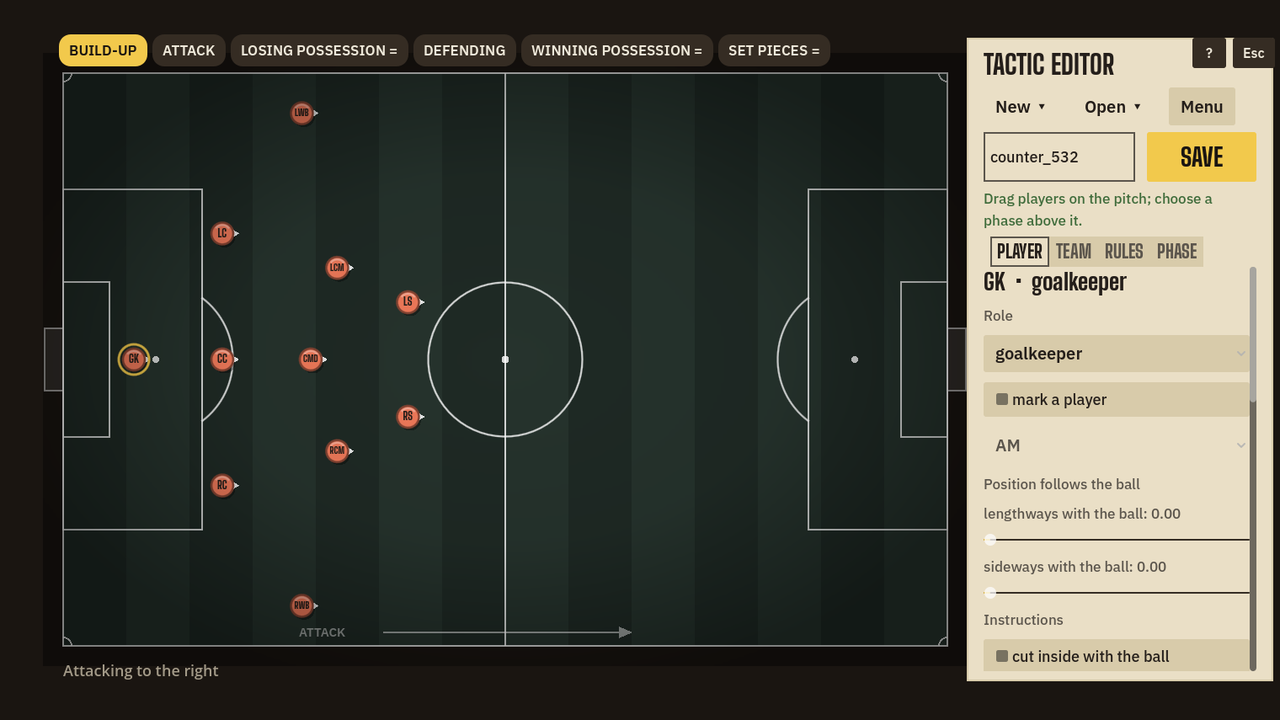
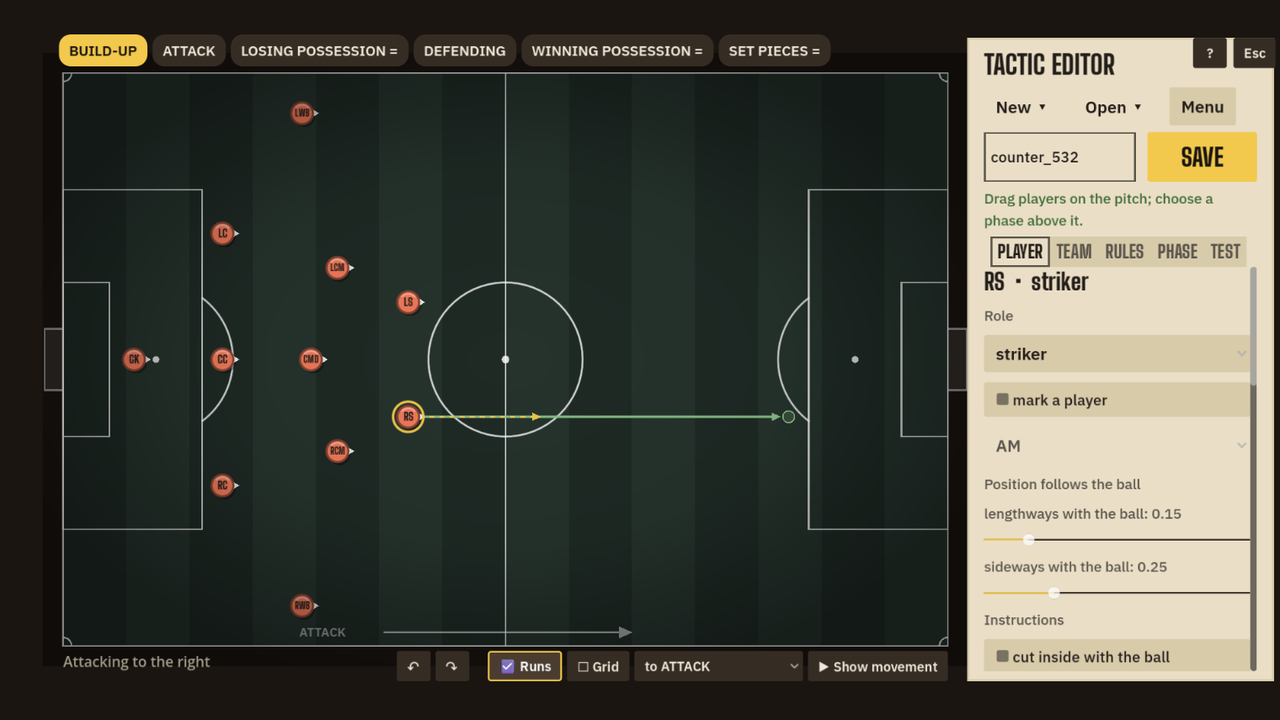
itch-media: nieuwe screenshots (RC1-exe), 08-11, trailer.gif en preview bijgewerkt
Opnamen uit release-exe 0.1.0-beta.1 (Engels). playtest_exe.py: fps-parameter, muiswiel, backspace.

Claude-Session: https://claude.ai/code/session_019QkXHE8GpzZwQEBBMRLHTX

diff --git a/docs/itch/preview/index.html b/docs/itch/preview/index.html
@@ -17,7 +17,7 @@ nav a:hover{background:rgba(255,255,255,.1)}
 h1{font:800 clamp(44px,8vw,92px)/.92 "Big Shoulders Display",Impact,sans-serif;text-transform:uppercase;color:var(--paper);margin:0 0 6px}
 .sub{color:var(--paper);opacity:.9;font-size:18px;margin:0 0 16px}
 .hero{width:100%;display:block;border-radius:4px;border:1px solid #0006}
-.thumbs{display:grid;grid-template-columns:repeat(6,1fr);gap:6px;margin-top:6px}
+.thumbs{display:grid;grid-template-columns:repeat(5,1fr);gap:6px;margin-top:6px}
 .thumbs img{width:100%;display:block;border-radius:2px;opacity:.85}.thumbs img:hover{opacity:1;outline:2px solid var(--accent)}
 .side{background:var(--paper);border-radius:4px;overflow:hidden;align-self:start;box-shadow:0 2px 0 #0004}
 .side img{width:100%;display:block}
@@ -51,7 +51,7 @@ footer{color:var(--paper);opacity:.75;font-size:13px;margin-top:28px}
 <div>
 <h1>Gaffer's Notebook</h1>
 <p class="sub">A football tactics sandbox: draw your plan in a notebook, then coach the match.</p>
-<img class="hero" src="01-match-live-1280x720.png" alt="Live match with scoreboard and statistics">
+<img class="hero" src="trailer.gif" alt="Short trailer: the notebook cover opens, a tactic with run lines, a match and the full-time card">
 <div class="thumbs">
 <a href="02-tactic-maker-1280x720.png"><img src="02-tactic-maker-1280x720.png" alt=""></a>
 <a href="03-menu-first-steps-1280x720.png"><img src="03-menu-first-steps-1280x720.png" alt=""></a>
@@ -59,6 +59,10 @@ footer{color:var(--paper);opacity:.75;font-size:13px;margin-top:28px}
 <a href="05-challenges-1280x720.png"><img src="05-challenges-1280x720.png" alt=""></a>
 <a href="06-tactic-meter-1280x720.png"><img src="06-tactic-meter-1280x720.png" alt=""></a>
 <a href="01-match-live-1280x720.png"><img src="01-match-live-1280x720.png" alt=""></a>
+<a href="08-library-1280x720.png"><img src="08-library-1280x720.png" alt=""></a>
+<a href="09-player-card-1280x720.png"><img src="09-player-card-1280x720.png" alt=""></a>
+<a href="10-highlights-1280x720.png"><img src="10-highlights-1280x720.png" alt=""></a>
+<a href="11-editor-runs-1280x720.png"><img src="11-editor-runs-1280x720.png" alt=""></a>
 </div></div>
 
 <aside class="side"><img src="cover-630x500.png" alt="Gaffer's Notebook">
@@ -89,6 +93,10 @@ footer{color:var(--paper);opacity:.75;font-size:13px;margin-top:28px}
 <figure><img src="06-tactic-meter-1280x720.png" alt=""><figcaption><b>Tactic Meter</b>Play many simulated matches with two tactics and see how they differ, with heatmaps and a "why" list. It measures the simulation, not real football.</figcaption></figure>
 <figure><img src="05-challenges-1280x720.png" alt=""><figcaption><b>Challenges</b>Six scenarios with a concrete goal, like scoring against a low block or keeping a clean sheet.</figcaption></figure>
 <figure><img src="04-full-time-1280x720.png" alt=""><figcaption><b>Full-time analysis</b>Statistics and two heatmaps after the whistle, to see where your plan worked.</figcaption></figure>
+<figure><img src="11-editor-runs-1280x720.png" alt=""><figcaption><b>Run lines and quick test</b>The editor draws where every player runs in each phase, and the TEST tab plays four short matches against an opponent of your choice with a result and a heatmap.</figcaption></figure>
+<figure><img src="08-library-1280x720.png" alt=""><figcaption><b>Tactic library</b>All your tactics in one list with a preview, favourites, rename, delete, import and export. Start from one of the nine starters or your own.</figcaption></figure>
+<figure><img src="09-player-card-1280x720.png" alt=""><figcaption><b>Player card</b>Click a player in a live match to see his condition, burst, stats and instructions, plus the spot where your tactic sends him.</figcaption></figure>
+<figure><img src="10-highlights-1280x720.png" alt=""><figcaption><b>Watch highlights</b>After the final whistle, replay the key moments of the match: goals, saves and chances, with a skip button.</figcaption></figure>
 <figure><img src="03-menu-first-steps-1280x720.png" alt=""><figcaption><b>Squad, levels and training</b>Players from amateur to pro make different kinds of mistakes. Your squad learns tactical concepts over time, so a demanding tactic needs training. A small fictional league ties it together. Nine starter tactics, including wide 4-3-3 wing play, 3-5-2 flank pressure and 4-4-2 long ball.</figcaption></figure>
 </div></section>
 
@@ -99,6 +107,10 @@ footer{color:var(--paper);opacity:.75;font-size:13px;margin-top:28px}
 <a href="04-full-time-1280x720.png"><img src="04-full-time-1280x720.png" alt=""></a>
 <a href="05-challenges-1280x720.png"><img src="05-challenges-1280x720.png" alt=""></a>
 <a href="06-tactic-meter-1280x720.png"><img src="06-tactic-meter-1280x720.png" alt=""></a>
+<a href="08-library-1280x720.png"><img src="08-library-1280x720.png" alt=""></a>
+<a href="09-player-card-1280x720.png"><img src="09-player-card-1280x720.png" alt=""></a>
+<a href="10-highlights-1280x720.png"><img src="10-highlights-1280x720.png" alt=""></a>
+<a href="11-editor-runs-1280x720.png"><img src="11-editor-runs-1280x720.png" alt=""></a>
 </div></section>
 
 <section class="paper" id="roadmap"><h2>Roadmap</h2>

diff --git a/scripts/playtest_exe.py b/scripts/playtest_exe.py
@@ -12,12 +12,12 @@ from ctypes import wintypes
 
 U = ctypes.windll.user32
 W, H = 1520, 780  # venster/viewport van het spel
-VK = {'ESC': 0x1B, 'ENTER': 0x0D, 'SPACE': 0x20, 'F9': 0x78, 'TAB': 0x09, 'END': 0x23, 'B': 0x42}
+VK = {'ESC': 0x1B, 'ENTER': 0x0D, 'SPACE': 0x20, 'F9': 0x78, 'TAB': 0x09, 'END': 0x23, 'B': 0x42, 'BACKSPACE': 0x08}
 BAD = re.compile(r'ERROR|Unhandled|exception|SCRIPT ERROR|Traceback', re.I)
 
 
 class Game:
-    def __init__(self, exe, out):
+    def __init__(self, exe, out, fps=10):
         self.exe, self.out = pathlib.Path(exe).resolve(), pathlib.Path(out).resolve()
         self.out.mkdir(parents=True, exist_ok=True)
         self.frames = self.out / 'frames'
@@ -27,7 +27,7 @@ class Game:
             (self.out / 'profile' / sub).mkdir(parents=True, exist_ok=True)
             env[var] = str(self.out / 'profile' / sub)
         si = subprocess.STARTUPINFO(); si.dwFlags = 1; si.wShowWindow = 0  # SW_HIDE
-        args = [str(self.exe), '--write-movie', str(self.frames / 'f.png'), '--fixed-fps', '10', '--max-fps', '10']
+        args = [str(self.exe), '--write-movie', str(self.frames / 'f.png'), '--fixed-fps', str(fps), '--max-fps', str(fps)]
         self.p = subprocess.Popen(args, cwd='C:\\Windows', env=env, startupinfo=si,
                                   stdout=open(self.out / 'app.out', 'wb'), stderr=open(self.out / 'app.err', 'wb'))
         self.hwnd = self._find_window()

diff --git a/docs/itch/screenshots.md b/docs/itch/screenshots.md
@@ -72,3 +72,7 @@ Meer dan 290 PNG's staan in `.tmp_takeover/automation/run-*/` (testruns met UI-a
 5. Sla op als PNG; upload de screenshots op de pagina (Edit game > Screenshots) en de cover bij "Cover image".
 
 Notitie: `07-league-1280x720.png` staat in `preview/` maar wordt bewust niet gebruikt op de pagina of in `preview/index.html`; dat scherm wordt opnieuw opgenomen (de layout van het competitiescherm is gewijzigd).
+
+## Update 18 oktober: nieuwe set uit de RC1-release-exe
+
+`screenshots/` en `preview/` bevatten nu de opnamen uit de release-exe 0.1.0-beta.1 (Engels, 1280x720 met dezelfde proportionele vulling, cover 630x500, PNG < 1 MB): `01-match-live` (minuut 36), `02-tactic-maker`, `03-menu-first-steps`, `04-full-time`, `05-challenges`, `06-tactic-meter`, `07-league` (nieuwe layout met clubkeuze) en nieuw `08-library`, `09-player-card`, `10-highlights`, `11-editor-runs`. `preview/trailer.gif` (13,5 s, 960 px breed, 15 fps) is de hero in `preview/index.html`. Opnamen en speeltest: `scripts/playtest_exe.py` (frames via `--write-movie`, eigen profiel met `instellingen.json`).
